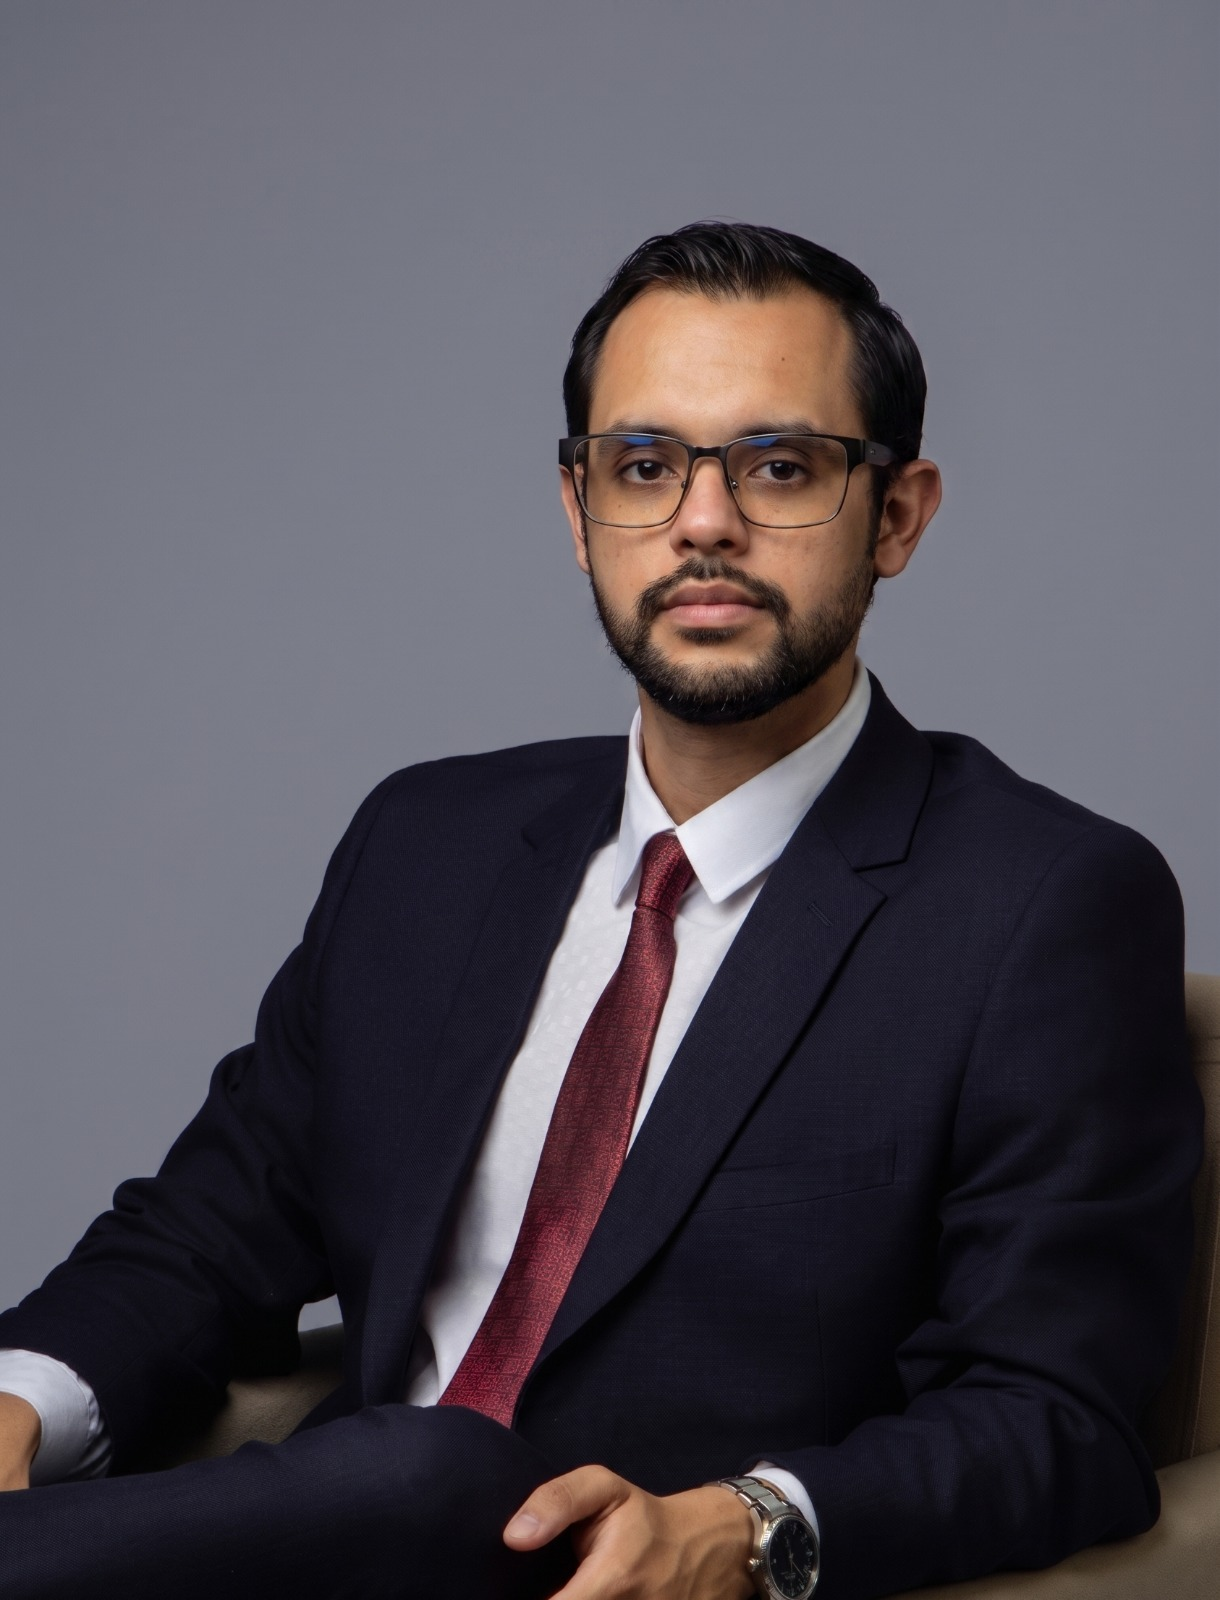
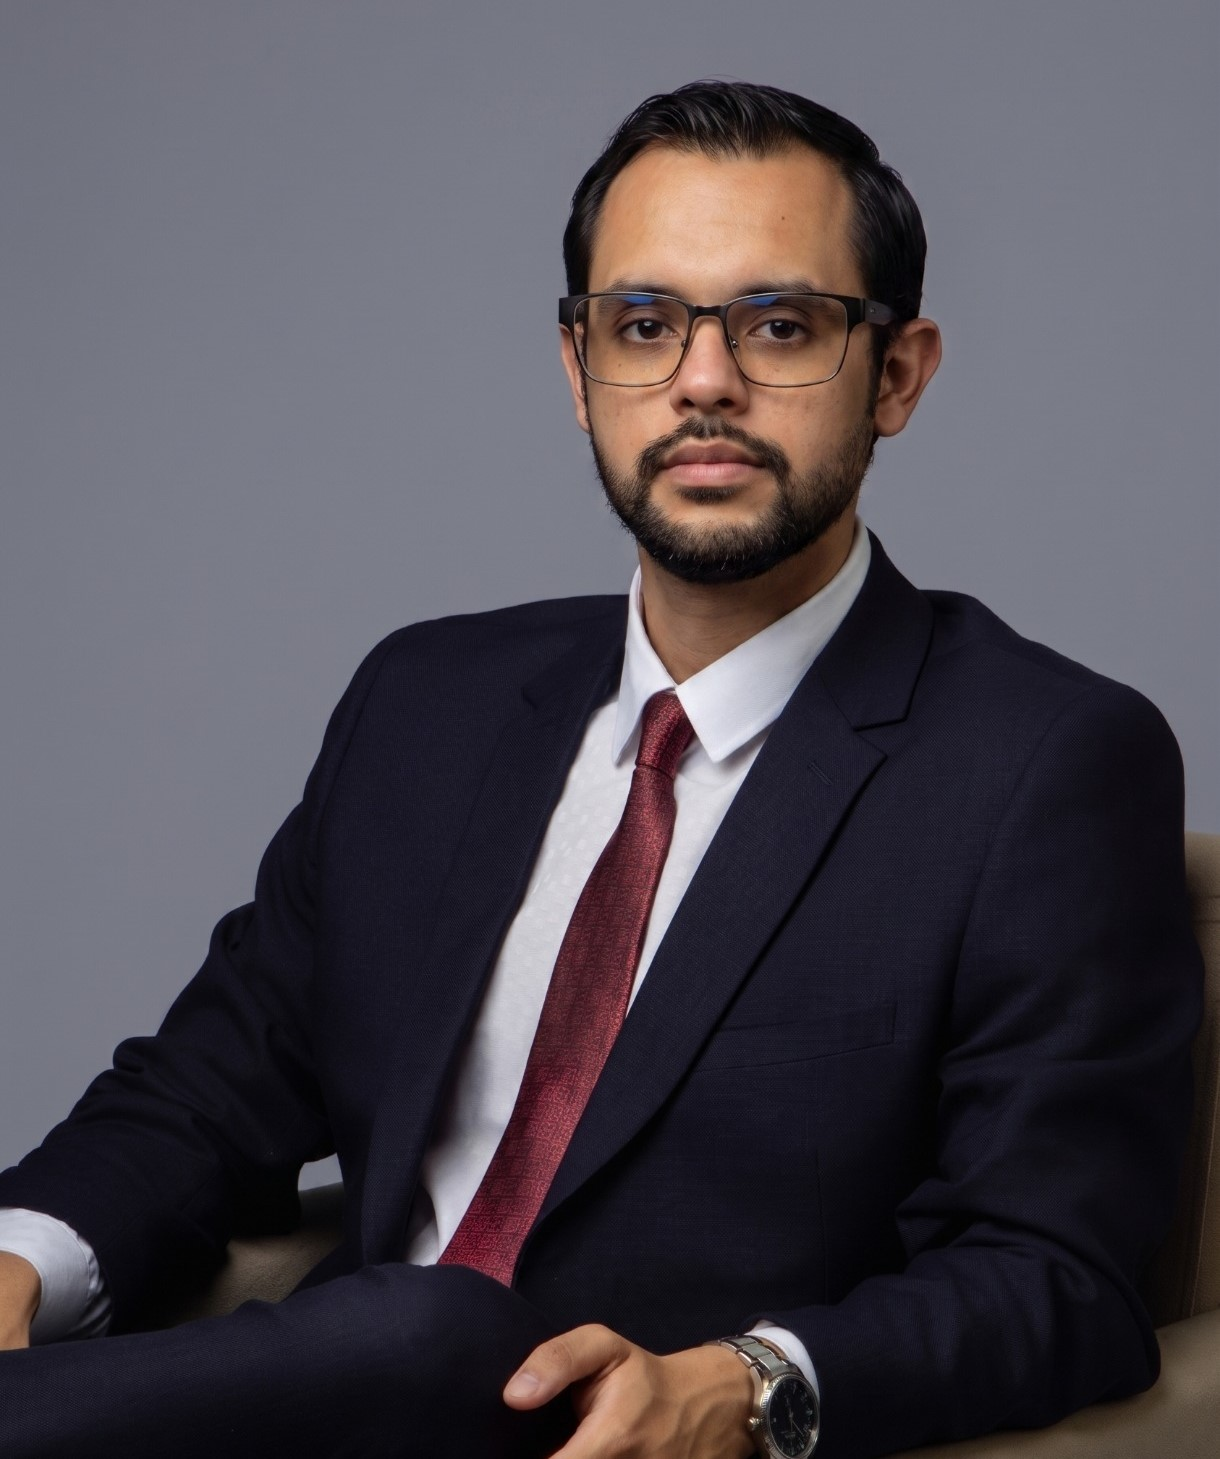
Atualização foto perfil socios

diff --git a/index.html b/index.html
@@ -301,14 +301,26 @@
     }
   
     @media(max-width:860px) {
-      .nav-links {
-        display: none;
-      }
-  
-      .nav-cta {
-        padding: 8px 14px;
-        font-size: 0.72rem;
-      }
+      
+    nav.wrap {
+      justify-content: center;
+      position: relative;
+    }
+
+    .nav-links {
+      display: none;
+    }
+
+    .nav-cta {
+      display: none;
+    }
+
+    .nav-right {
+      position: absolute;
+      right: 32px;
+      top: 50%;
+      transform: translateY(-50%);
+    }
     }
   
     /* ---------- HERO ---------- */
@@ -717,13 +729,13 @@
     /* Navbar */
   
     header .logo-img {
-      height: 100px;
+      height: 135px;
     }
   
     /* Footer */
   
     .footer-brand .logo-img {
-      height: 120px;
+      height: 150px;
     }
   
     /* Mobile */
@@ -731,11 +743,11 @@
     @media(max-width:768px) {
   
       header .logo-img {
-        height: 82px;
+        height: 120px;
       }
   
       .footer-brand .logo-img {
-        height: 95px;
+        height: 150px;
       }
   
     }
@@ -804,6 +816,7 @@
     /* Mobile */
   
     @media(max-width:768px) {
+      
   
       .footer-top {
         flex-direction: column;
@@ -933,13 +946,14 @@
 
   <section class="hero" id="inicio">
     <div class="wrap hero-inner">
-      <p class="eyebrow">Advocacia em direito da saúde</p>
-      <h1>Quando a saúde falha,<br>o <em>direito</em> responde.</h1>
-      <p class="lead">Muitos planos de saúde ainda negam tratamentos essenciais para pessoas com autismo. 
-        No entanto, essa prática, na maioria dos casos, é indevida. Quando há indicação médica, o paciente 
-        tem direito ao tratamento necessário para o seu desenvolvimento e qualidade de vida. Se o seu plano 
-        recusou a cobertura, nossa equipe pode analisar o seu caso e orientá-lo, de forma rápida e sem compromisso, 
-        sobre os seus direitos.</p>
+      <p class="eyebrow">DIREITO DOS AUTISTAS E DIREITO DA SAÚDE</p>
+      <h1>Quando o plano de saúde falha, <br> o <em>direito</em> garante o tratamento adequado.</h1>
+      <p class="lead">Muitos planos de saúde ainda negam ou limitam as terapias essenciais para o 
+        desenvolvimento e qualidade de vida da criança com autismo. No entanto, 
+        essa prática, na maioria dos casos, é indevida. Quando há indicação médica, seu filho tem 
+        direito ao tratamento necessário para o seu desenvolvimento e qualidade de vida. Se você recebeu 
+        uma negativa de cobertura, limitação de sessões ou descontinuidade das terapias, nossa equipe analisa 
+        o caso para garantir os direitos do seu filho de forma rápida e humanizada.</p>
       <a class="btn-primary"
         href="https://wa.me/053991931987?text=Ol%C3%A1%2C%20gostaria%20de%20falar%20sobre%20meu%20caso."
         target="_blank" rel="noopener">
@@ -976,40 +990,40 @@
     <div class="wrap">
       <div class="section-head">
         <p class="eyebrow">Áreas de atuação</p>
-        <h2>Atuamos exclusivamente em causas de saúde — do diagnóstico à decisão final.</h2>
-        <p>Cada área abaixo nasce de um mesmo princípio: o paciente não pode esperar enquanto uma operadora ou
-          instituição decide se cumpre o que deve.</p>
+        <h2>Protegemos o direito ao tratamento integral e especializado para o autismo</h2>
+        <p>Entendemos a urgência que o desenvolvimento do seu filho exige. Atuamos para 
+          combater as principais abusividades dos planos de saúde.</p>
       </div>
       <div class="areas-grid">
         <div class="area-card">
           <div class="num mono">01</div>
-          <h3>Negativa de cobertura</h3>
-          <p>Recusa de exames, cirurgias, internações ou tratamentos por planos de saúde.</p>
+          <h3>Negativa de Método Clínico</h3>
+          <p>Recusa de cobertura para terapias específicas e baseadas em evidências, como o Método ABA.</p>
         </div>
         <div class="area-card">
           <div class="num mono">02</div>
-          <h3>Erro e negligência médica</h3>
-          <p>Falhas de diagnóstico, procedimento ou pós-operatório com dano ao paciente.</p>
+          <h3>Limitação de Sessões</h3>
+          <p>Imposição de limites anuais ou mensais para consultas com psicólogos, fonoaudiólogos e terapeutas ocupacionais.</p>
         </div>
         <div class="area-card">
           <div class="num mono">03</div>
-          <h3>Reajustes abusivos</h3>
-          <p>Aumentos de mensalidade fora dos limites legais, por idade ou sinistralidade.</p>
+          <h3>Profissionais Fora da Rede</h3>
+          <p>Direito ao reembolso integral ou custeio de profissionais especializados quando a rede credenciada for insuficiente.</p>
         </div>
         <div class="area-card">
           <div class="num mono">04</div>
-          <h3>Medicamentos de alto custo</h3>
-          <p>Fornecimento de medicações e terapias negadas por plano ou pelo SUS.</p>
+          <h3>Medicamentos Específicos</h3>
+          <p>Ações para fornecimento de medicamentos de alto custo associados ao tratamento e comorbidades.</p>
         </div>
         <div class="area-card">
           <div class="num mono">05</div>
-          <h3>Home care e cuidados contínuos</h3>
-          <p>Manutenção de atendimento domiciliar indevidamente suspenso ou reduzido.</p>
+          <h3>Home Care e Apoio Escolar</h3>
+          <p>Garantia de suporte terapêutico domiciliar ou acompanhamento especializado quando indicados pela equipe médica.</p>
         </div>
         <div class="area-card">
           <div class="num mono">06</div>
-          <h3>Cirurgias e internações</h3>
-          <p>Liberação urgente de procedimentos e leitos negados sem justificativa técnica.</p>
+          <h3>Quebra de Vínculo Contratual</h3>
+          <p>Defesa contra o cancelamento unilateral e imotivado de planos de saúde familiares durante o tratamento.</p>
         </div>
       </div>
     </div>
@@ -1081,8 +1095,9 @@
           </a>
 
           <p>
-            Escritório dedicado a pacientes e famílias
-            em causas de saúde, em todo o Brasil.
+            “Escritório dedicado a pacientes e famílias em causas de saúde, 
+            com foco no auxílio de mães e pais atípicos para garantir o correto 
+            tratamento para o TEA.”
           </p>
 
         </div>
